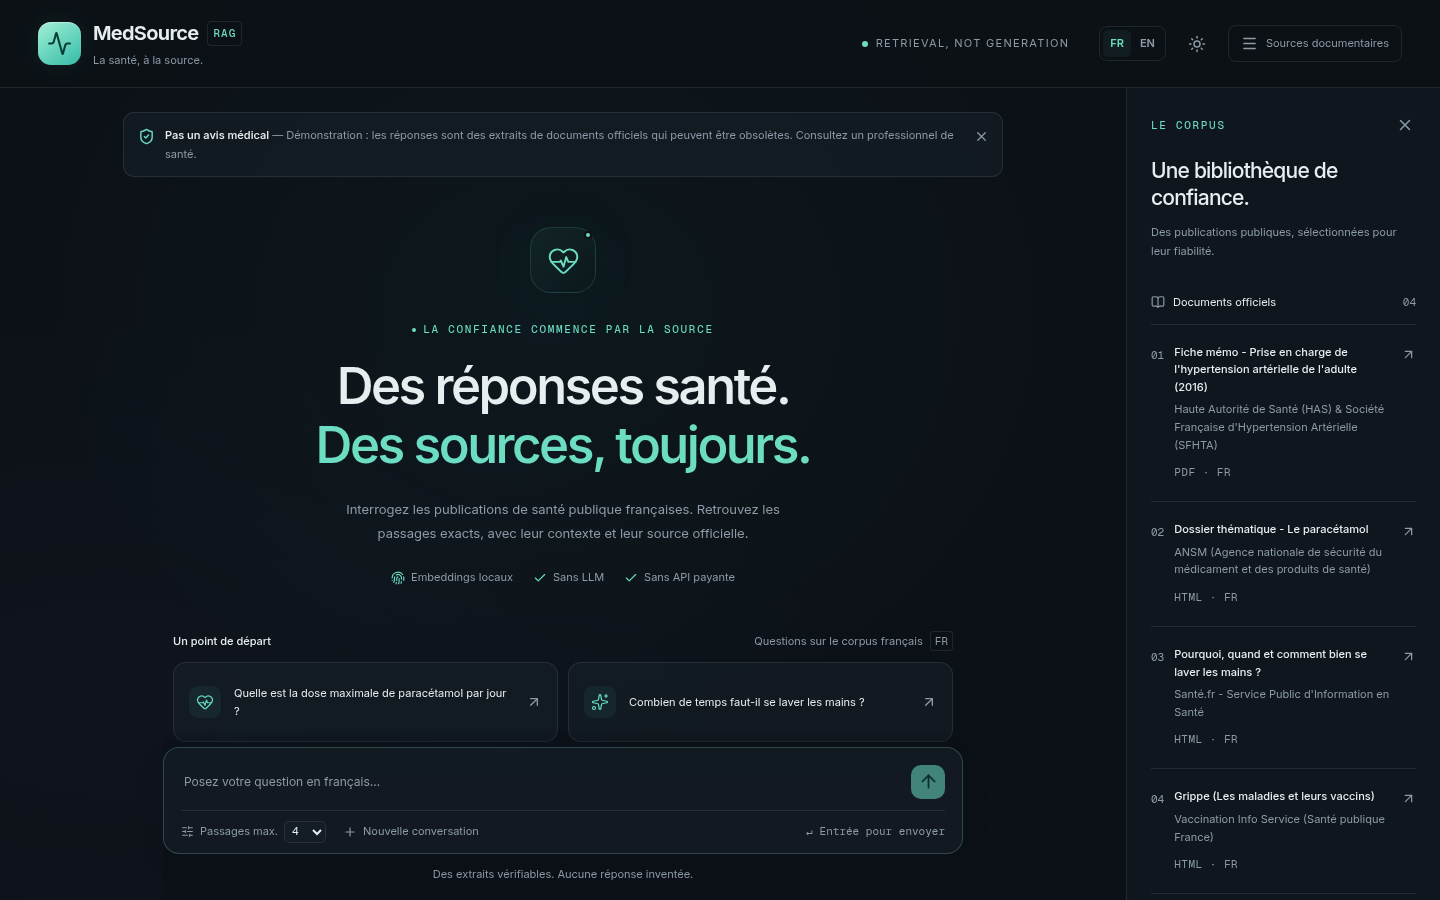
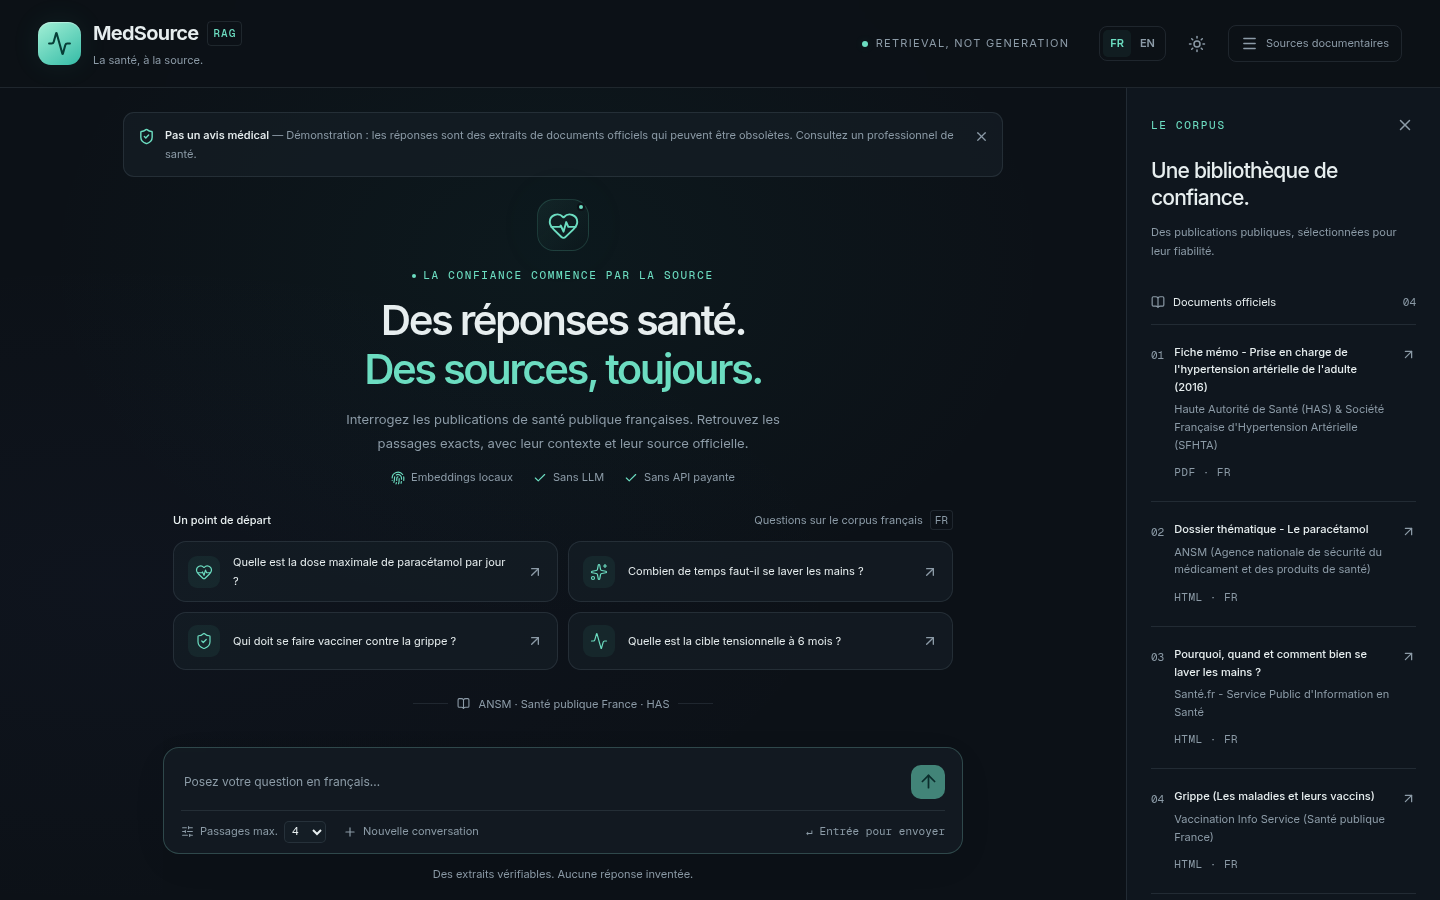
Frontend: compact empty state so all suggested questions stay visible above the composer on laptop screens; refresh screenshot

diff --git a/frontend/src/index.css b/frontend/src/index.css
@@ -1326,3 +1326,42 @@ html:not(.dark) .teal {
 html:not(.dark) .amber {
   color: #8a5a00;
 }
+
+/* Compact empty state on laptop-height screens: keep every suggested question
+   visible above the sticky composer (e.g. 1440x900). */
+@media (min-width: 761px) and (max-height: 1000px) {
+  .empty-main {
+    justify-content: flex-start;
+    padding: 22px 0 12px;
+  }
+  .hero-emblem {
+    width: 52px;
+    height: 52px;
+    border-radius: 17px;
+    margin-bottom: 16px;
+  }
+  .hero .eyebrow {
+    margin-bottom: 12px;
+  }
+  h1 {
+    font-size: clamp(30px, 3vw, 42px);
+  }
+  .hero-description {
+    margin-top: 14px;
+  }
+  .feature-pills {
+    margin-top: 14px;
+  }
+  .suggestions {
+    margin-top: 26px;
+  }
+  .question-grid button {
+    min-height: 58px;
+    padding: 11px 14px;
+  }
+}
+@media (min-width: 761px) and (max-height: 820px) {
+  .hero-emblem {
+    display: none;
+  }
+}
